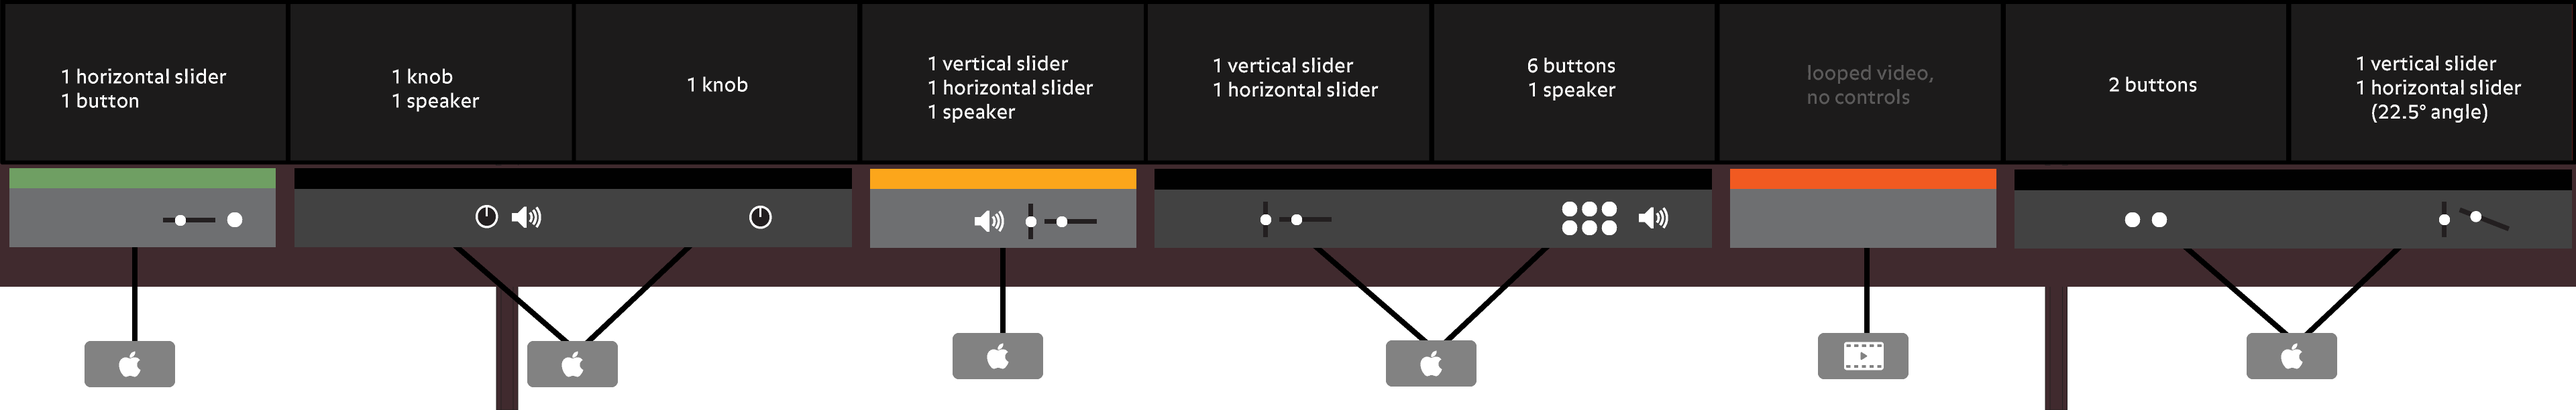
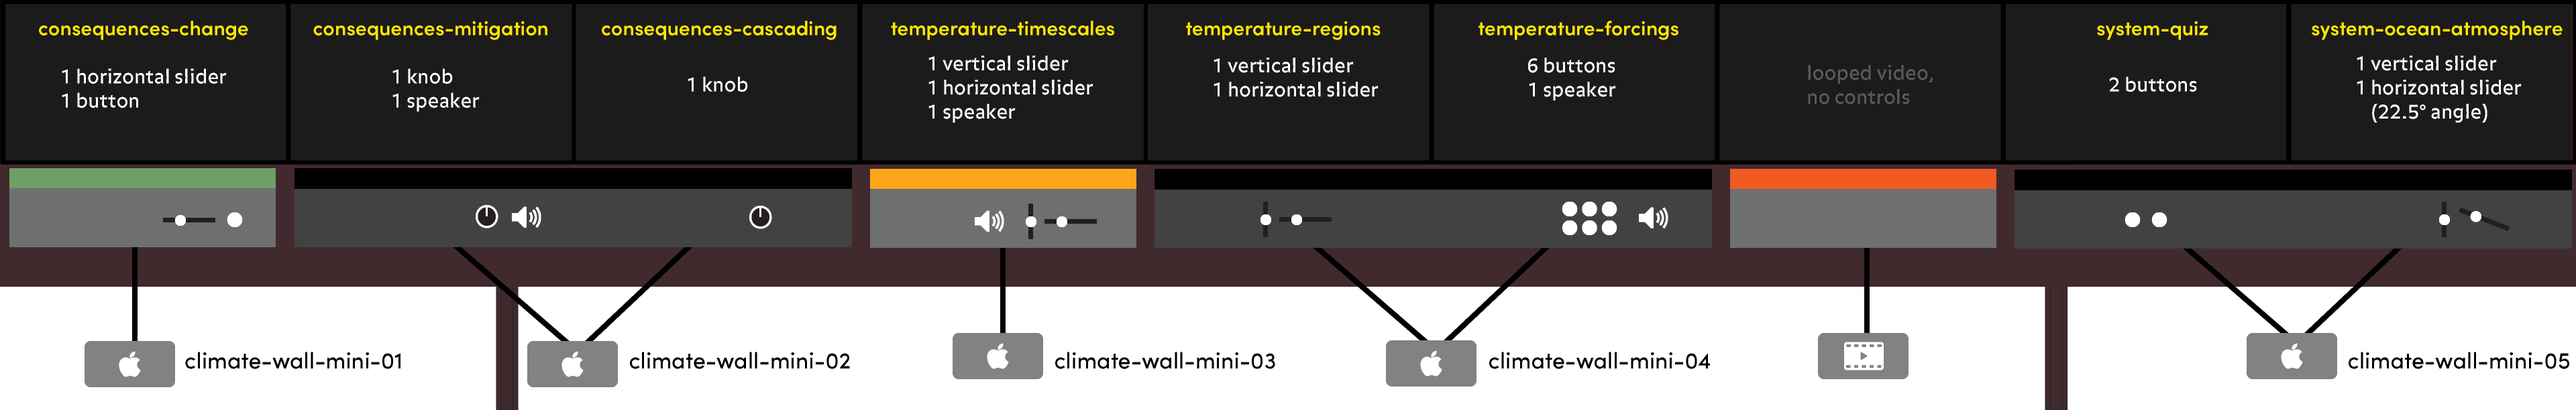
update docs

diff --git a/docs/hope.md b/docs/hope.md
@@ -2,44 +2,100 @@
 
 This is an internal document that is specific to the AMNH HoPE installation and maintenance.
 
-## Troubleshooting apps
+## 1. Troubleshooting apps
 
-For any issues with the software, usually a restart of the computer will fix the problems.
+For any issues with the software, usually a restart of the computer will fix the problems. The apps will automatically load shortly after booting up (~15 seconds).
 
 For any issues with the hardware (e.g. sliders not working), you will need to contact A/V to potentially replace the slider or board.
 
-## Overview of setup
+## 2. Overview of setup
 
 The HoPE wall interactives are configured like so:
 
 [![Climate wall controls](img/wall_diagrams_inputs.png)](img/wall_diagrams_inputs.png)
 
 - There are 5 Mac Minis running 8 interactives
-- 3 of the Macs are running dual screen outputs
-- 2 of the Macs have audio output
+   - Internally, we refer to them numbered from left to right: `climate-wall-mini-01`, `climate-wall-mini-02`,... `climate-wall-mini-05`
+- 3 of the Macs are running dual screen outputs (`climate-wall-mini-02`, `climate-wall-mini-04`, `climate-wall-mini-05`)
+- 3 of the Macs have audio output (`climate-wall-mini-02`, `climate-wall-mini-03`, `climate-wall-mini-04`)
 - All of the Macs have inputs from [physical controls](controls.md) via USB
-- There is a single machine that is simply looping video with no input or audio output
+- There is a single machine (Brightsign) that is simply looping video with no input or audio output
 
 All macs are configured to restart overnight, every night at 3:45am.
 
-## Updating apps
+## 3. Updating apps
 
-You can refer to the [development](development.md), [deployment](deployment.md), and [controls](controls.md) documents for the specifics of how to develop and deploy apps. There are 5 commands that correspond to building apps for the 5 respective Mac Minis from left to right:
+The apps should be pretty stable in the current machines as configured. The main reason the apps need to be updated is if there is new content or data that needs to be added. I will outline here how to do that for the apps that require regular updates.
+
+### 3.a. Requirements
+
+In order to update the apps, you will need:
+
+1. A Mac. These instructions are specifically written for Mac (and the machines in the hall are Mac Minis).  Though it's possible to make this work for PCs or Linux, that will not be covered here.
+2. [Git](https://git-scm.com/) installed (or some Git client that installs git for you) to pull in the latest code from Github.
+3. [Node.js](https://nodejs.org/en/) installed.
+4. [Electron packager](https://github.com/electron/electron-packager). If you installed Node, you can run: `npm install electron-packager -g`. [Electron](https://www.electronjs.org/) is used to wrap the web apps into executable desktop apps.
+5. [Python 3](https://www.python.org/) installed. (This is only required if you are processing new data for the apps)
+    - And if you don't already have it installed, NumPY: `pip install numpy`
+
+### 3.b. The codebase
+
+The code for all 8 interactives are contained in a [single Github repository here](https://github.com/amnh-digital/hope-climate-ia). Where each subfolder (e.g. `consequences-cascading`, `consequences-change`, ...) contains code for a single app. Each app is 100% HTML/Javascript/CSS that can run in a browser with no server-side code.
+
+Pull and install the development dependencies of the apps like this:
 
 ```
-sudo npm run build:mac1
-sudo npm run build:mac2
+git clone https://github.com/amnh-digital/hope-climate-ia.git
+cd hope-climate-ia
+npm install
+npm start
+```
+
+The final command will load a simple server on your machine that can be accessed at [localhost:8080](http://localhost:8080/)
+
+### 3.c. Updating apps with new annual data
+
+Every year around the beginning of February, NASA and NOAA releases new annual data from the previous year. That is when we update the apps that rely on new data.
+
+The two apps that need to be updated are:
+
+1. ["Rising Global Temperature"](https://amnh-digital.github.io/hope-climate-ia/temperature-timescales/embed.html) which is in the [./temperature-timescales/](https://github.com/amnh-digital/hope-climate-ia/tree/master/temperature-timescales) directory and on machine `climate-wall-mini-03`.
+    1. You can follow the [instructions for updating this app here](https://github.com/amnh-digital/hope-climate-ia/tree/master/temperature-timescales#rising-global-temperature)
+2. ["Mapping Change"](https://amnh-digital.github.io/hope-climate-ia/temperature-regions/embed.html) which is in the [./temperature-regions/](https://github.com/amnh-digital/hope-climate-ia/tree/master/temperature-regions) directory and one of two interactives on machine `climate-wall-mini-04`.
+    1. You can follow the [instructions for updating this app here](https://github.com/amnh-digital/hope-climate-ia/tree/master/temperature-regions#mapping-change)
+
+Once you process new data and assets, and confirm that everything looks good locally, you can now check it back into Github.
+
+```
+git add .
+git commit -m "Updated apps with new data"
+git push origin master
+```
+
+### 3.d. Deploying updated apps into the hall
+
+Now all you need to do is "build" the individual apps that were updated into executable desktop apps that can be dropped into the computers in the hall. This is done using [Electron](https://www.electronjs.org/) and the [Electron packager](https://github.com/electron/electron-packager)
+
+For "Rising Global Temperature" ([./temperature-timescales/](https://github.com/amnh-digital/hope-climate-ia/tree/master/temperature-timescales)), you will need to build for `climate-wall-mini-03` by running:
+
+```
 sudo npm run build:mac3
-sudo npm run build:mac4
-sudo npm run build:mac5
 ```
+
+And for "Mapping Change" ([./temperature-regions/](https://github.com/amnh-digital/hope-climate-ia/tree/master/temperature-regions)), you will need to build for `climate-wall-mini-04` by running:
+
+```
+sudo npm run build:mac4
+```
+
+These will create commands will create two executable apps in the `.build/` directory, e.g. `./build/mac/hope-mac-3-darwin-x64/hope-mac-3.app` and `./build/mac/hope-mac-4-darwin-x64/hope-mac-4.app`
 
 Once you build these on your machine:
 
-1. Do a screenshare to each of the Macs (e.g. `climate-wall-mini-01`).
+1. Do a Mac screenshare to each of the relevant Macs (e.g. `climate-wall-mini-03` and `climate-wall-mini-04`). Talk to someone in RCE to get access to these machines.
 2. `Cmd+Q` to quit the current app
-3. Drag-and-drop the appropriate app (e.g. `hope-mac-1`) onto the desktop of the corresponding machine.
-4. Go to `/Applications` directory and remove the current app (e.g. `hope-mac-1`)
+3. Drag-and-drop the appropriate app (e.g. `hope-mac-3`) onto the desktop of the corresponding machine (e.g. `climate-wall-mini-03`).
+4. Go to `/Applications` directory and remove the current app (e.g. `hope-mac-3`)
 5. Drag the new app from the desktop to the `/Applications` directory
 6. Restart the computer
 7. Disconnect from screenshare (it's important to explicitly disconnect since there may be a warning dialog box for unclosed screenshare connections on the machine)

diff --git a/temperature-regions/README.md b/temperature-regions/README.md
@@ -19,9 +19,10 @@ brew install netcdf    (if Mac, otherwise download .exe from URL)
 pip install netCDF4
 ```
 
-Download and unpack the latest "Land-Ocean Temperature Index, ERSSTv5, 1200km smoothing" data from [NASA GISS](https://data.giss.nasa.gov/gistemp/) (you can also just do this manually)
+Download and unpack the latest "Land-Ocean Temperature Index, ERSSTv5, 1200km smoothing" data from [NASA GISS](https://data.giss.nasa.gov/gistemp/) (you can also just do this manually). We are putting them into the `oversize-assets/` folder which is not tracked by Git so we don't make this repository too big.
 
 ```
+cd temperature-regions
 wget -O ../oversize-assets/gistemp1200_ERSSTv5.nc.gz "https://data.giss.nasa.gov/pub/gistemp/gistemp1200_ERSSTv5.nc.gz"
 gunzip ../oversize-assets/gistemp1200_ERSSTv5.nc.gz
 rm ../oversize-assets/gistemp1200_ERSSTv5.nc.gz
@@ -45,7 +46,7 @@ Since the baseline is 1951-1980 mean by default, we need to change the baseline 
 python scripts/process_baseline.py -in ../oversize-assets/gistemp1200_ERSSTv5_annual.nc -out ../oversize-assets/gistemp1200_ERSSTv5_annual_1901-2000_baseline.nc
 ```
 
-The above script uses reference files with the correct baseline generated from the [GISS Maps interface](https://data.giss.nasa.gov/gistemp/maps/)) to create new data with the correct baseline. Now, we can process the data for use in the interface:
+The above script uses reference files with the correct baseline generated from the [GISS Maps interface](https://data.giss.nasa.gov/gistemp/maps/)) to create new data with the correct baseline. Now, we can process the data for use in the interface (replace **2018** with whatever the latest year you are processing):
 
 ```
 python scripts/process_data.py -in ../oversize-assets/gistemp1200_ERSSTv5_annual_1901-2000_baseline.nc -start 1880 -end 2018
@@ -56,11 +57,11 @@ This will process the new data through 2018 and create a new `./data/current.jso
 You'll need to install a couple other dependencies for generating the maps:
 
 ```
-brew install pycairo    (if Mac, otherwise download binary from: https://www.lfd.uci.edu/~gohlke/pythonlibs/#pycairo)
+brew install pycairo
 pip install gizeh
 ```
 
-Lastly, you generate new images by running:
+Lastly, you generate new images by running (again, replace **2018** with whatever the latest year you are processing):
 
 ```
 python scripts/process_images.py -in ../oversize-assets/gistemp1200_ERSSTv5_annual_1901-2000_baseline.nc -start 1880 -end 2018

diff --git a/temperature-timescales/README.md b/temperature-timescales/README.md
@@ -6,22 +6,25 @@
 - Source: [NOAA NCDC](https://www.ncdc.noaa.gov/monitoring-references/faq/anomalies.php) (click "Anomalies and Index Data")
 - Temporal coverage: 1880 - present
 - Temporal resolution: monthly and annual
-- Geographic coverage/resolution:   global
+- Geographic coverage/resolution: global
 - Baseline: 20th century average (1901-2000)
 
 ## Updating data
 
-The following lines downloads the latest monthly and annual temperature anomaly data from [NOAA](https://www.ncdc.noaa.gov/monitoring-references/faq/anomalies.php) (you can also just do this manually)
+The following lines downloads the latest monthly _and_ annual temperature anomaly data from [NOAA](https://www.ncdc.noaa.gov/monitoring-references/faq/anomalies.php) (you can also just do this manually). Note: Replace **2018** with whatever the latest year available is-- usually the previous year if after February (e.g. if it is after February 2021, the latest available would be 2020)
 
 ```
 wget -O data/188001-201812.csv "https://www.ncdc.noaa.gov/cag/global/time-series/globe/land_ocean/p12/12/1880-2018.csv"
 wget -O data/1880-2018.csv "https://www.ncdc.noaa.gov/cag/global/time-series/globe/land_ocean/ytd/12/1880-2018.csv"
 ```
 
-Now process the new data
+Now process the new data, again, replacing **2018** with the latest year you are processing
 
 ```
+cd temperature-timescales
 python scripts/process_data.py -monthly "data/188001-201812.csv" -annual "data/1880-2018.csv" -end 2018
 ```
 
-This will process the new data through 2018 and create a new `./data/current.json` file that the app will read. Locally, you can view this here: [localhost:8080/temperature-timescales](http://localhost:8080/temperature-timescales/).
+This will process the new data through 2018 and create a new [data/current.json](data/current.json) file that the app will read. Locally, you can view this here: [localhost:8080/temperature-timescales](http://localhost:8080/temperature-timescales/).
+
+Note this will also update the annotations file [content/content.json](content/content.json) which contains annotations of the five hottest years on record and will update it appropriately.
